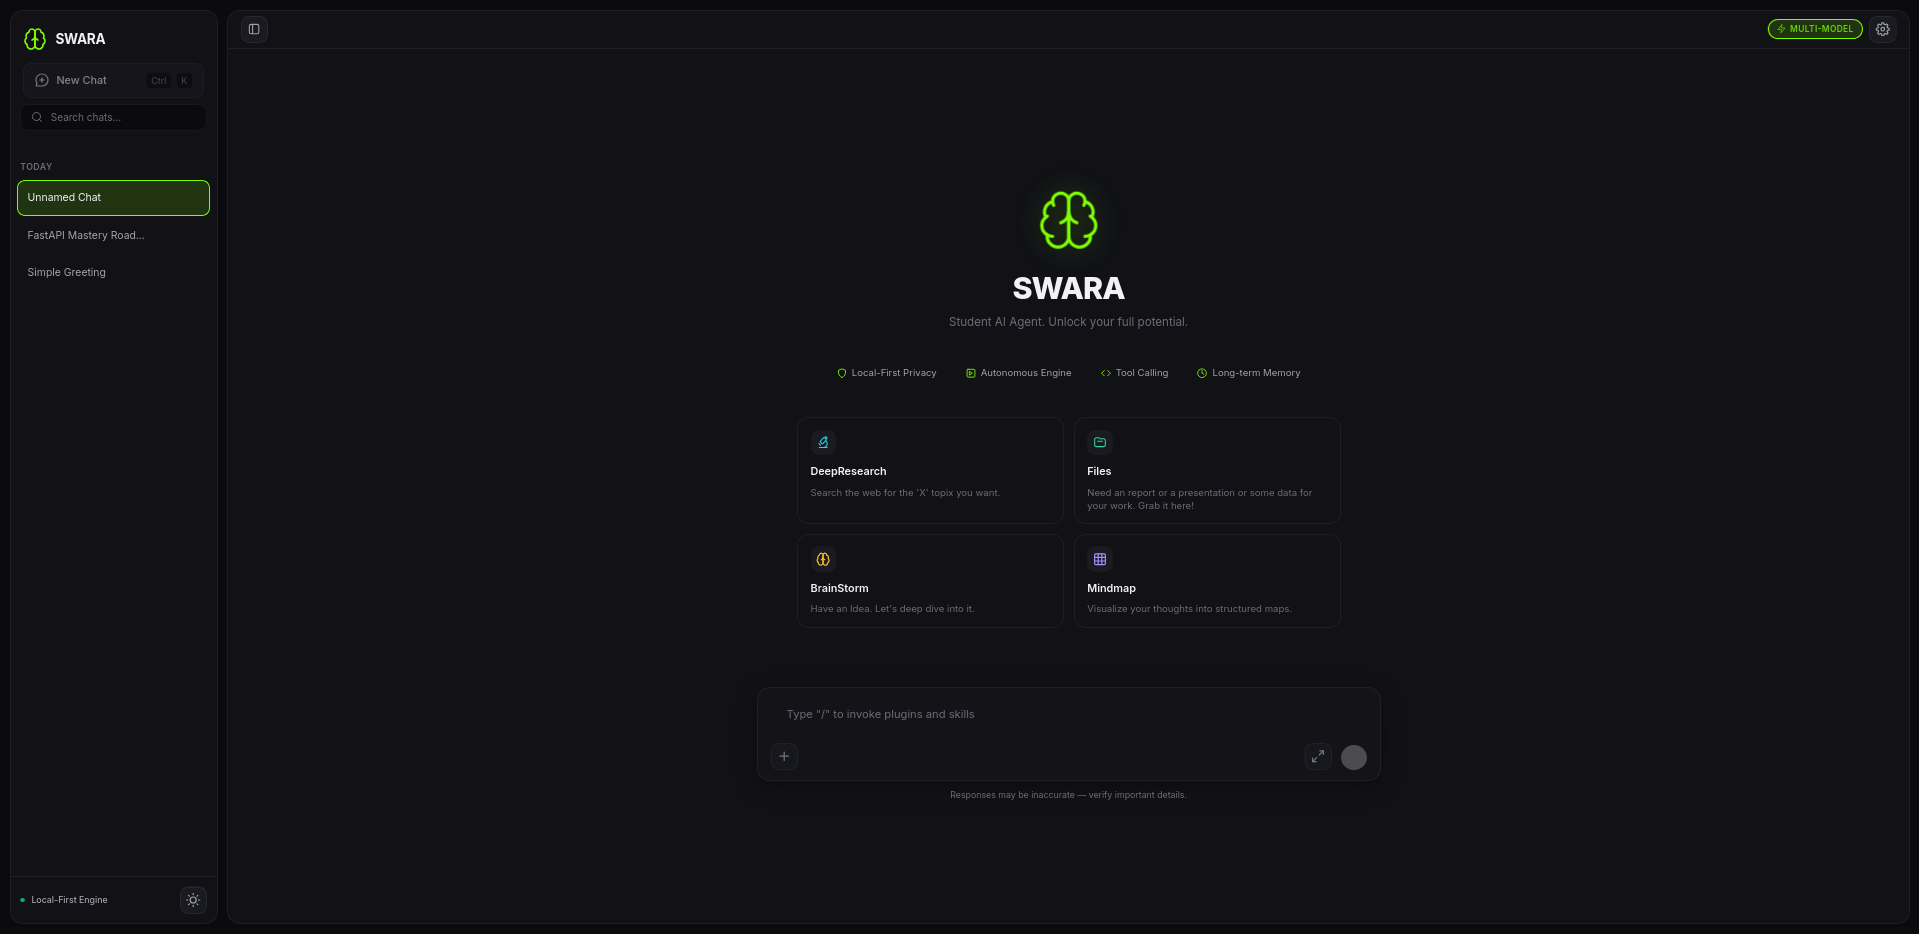
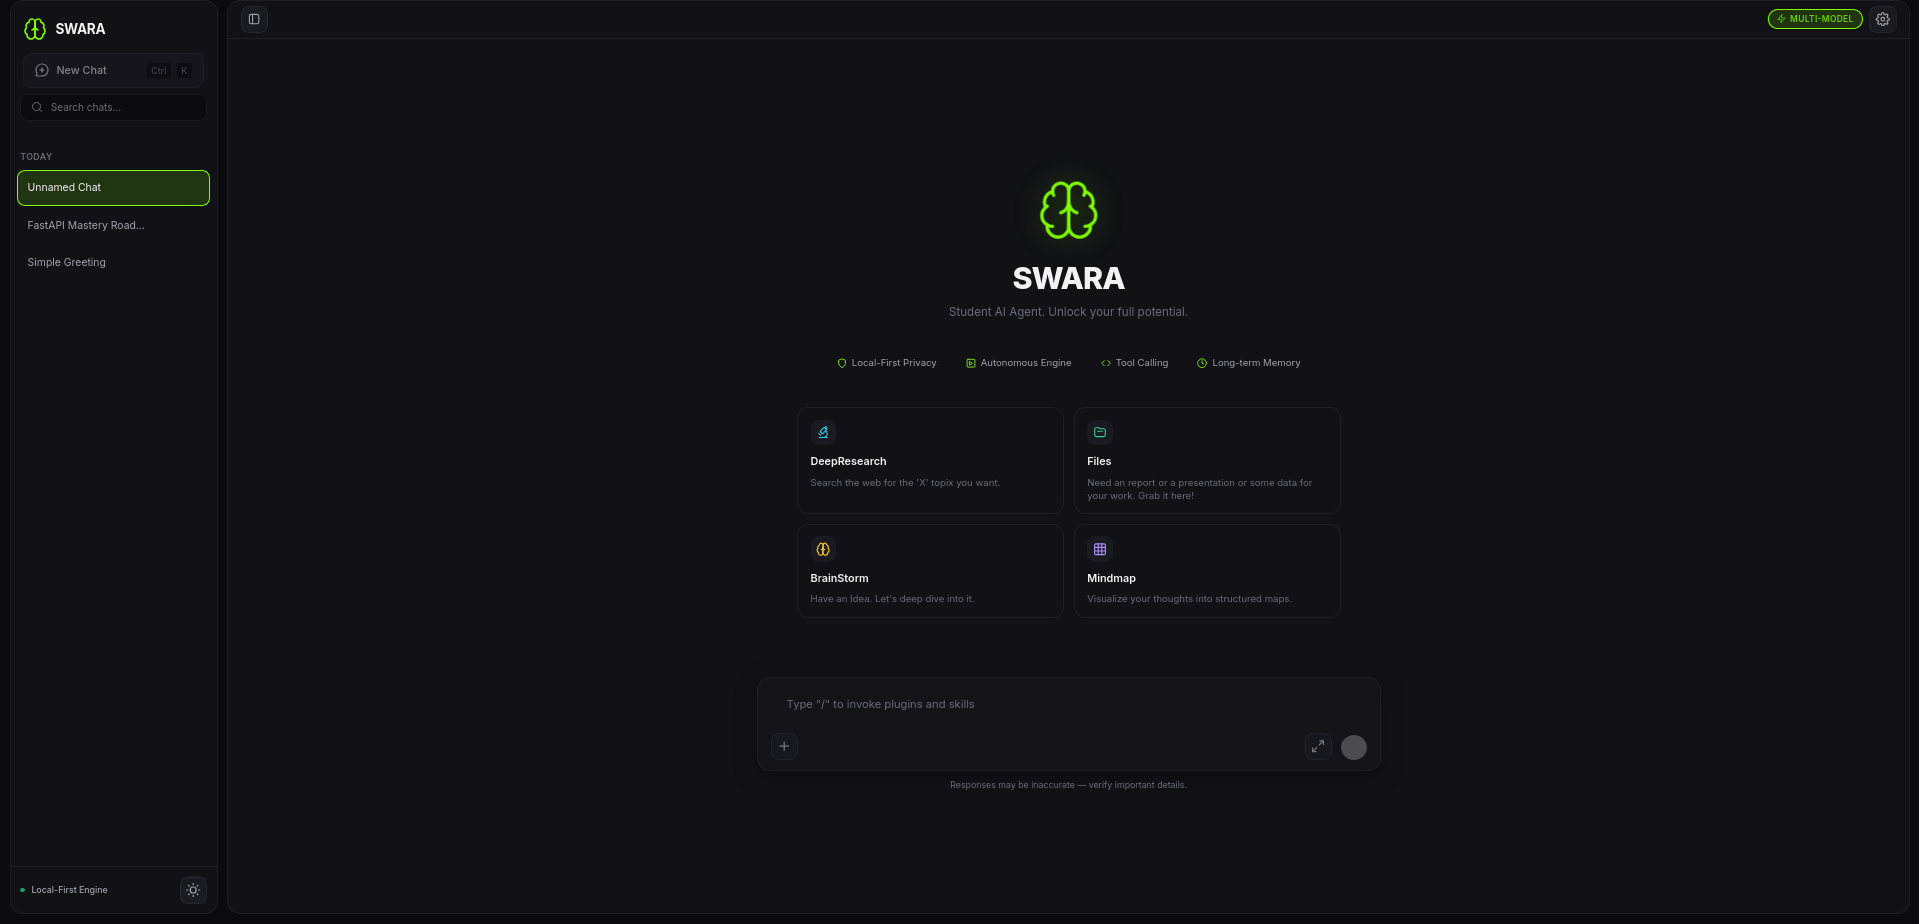
Update README with new cropped screenshots and remove deleted screenshot

diff --git a/README.md b/README.md
@@ -1,8 +1,13 @@
 # Swara AI - Advanced Agentic Workflow Framework
 
-![Swara UI 1](.screenshorts/screenshot_1.png)
-![Swara UI 2](.screenshorts/screenshot_3.png)
-![Swara UI 3](.screenshorts/screenshot_5.png)
+![Swara UI 1](.screenshorts/screenshot_9.png)
+![Swara UI 2](.screenshorts/img2.png)
+![Swara UI 3](.screenshorts/img3.png)
+![Swara UI 4](.screenshorts/img4.png)
+![Swara UI 5](.screenshorts/img5.png)
+![Swara UI 6](.screenshorts/screenshot_1.png)
+![Swara UI 7](.screenshorts/screenshot_3.png)
+![Swara UI 8](.screenshorts/screenshot_5.png)
 
 ## Overview
 Swara AI is an advanced, autonomous AI agent framework designed to bridge the gap between Large Language Models (LLMs) and local machine execution. Built with **FastAPI**, **LangGraph concepts**, and a highly modular tool ecosystem, Swara AI acts as a sophisticated digital assistant capable of reading files, writing code, executing scripts, solving math, creating interactive mindmaps, and managing its own memory securely.
